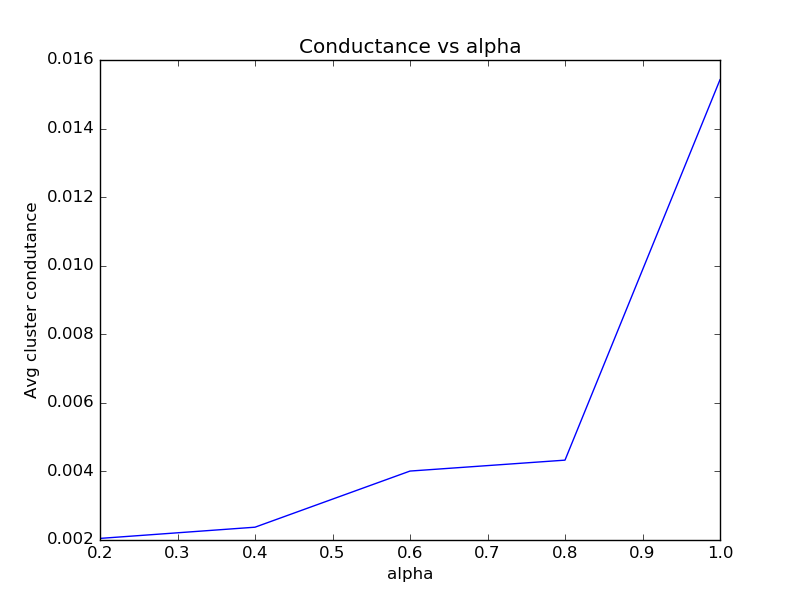
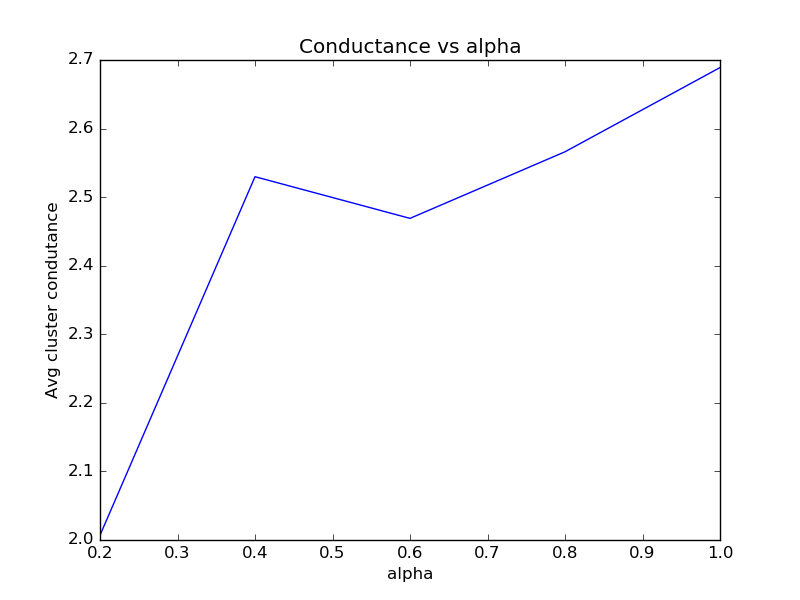
renaming files. Added readme

diff --git a/evaluate.py b/evaluate.py
@@ -4,18 +4,17 @@ import preprocessing as pre
 
 def printAverageNodesInCluster(colors):
     print {c:len(colors[c]) for c in colors}
-    
+
 def evaluateClusters(labels, graph_list):
     order = sorted(graph_list[0].nodes())
     colors = {}
+    num_clusters = len(colors)
     num_layers = len(graph_list)
     for i,c in enumerate(labels):
         if c in colors:
             colors[c] += [order[i]]
 	else:
 	    colors[c] = [order[i]]
-
-
 
     density = np.zeros((num_layers,len(colors)))
     conductance = np.zeros((num_layers,len(colors)))
@@ -39,8 +38,8 @@ def evaluateClusters(labels, graph_list):
     print np.mean(density,axis=0)
     print "Conductance found for each cluster across all layers:"
     print np.mean(conductance,axis=0)
-    mean_density = np.sum(np.mean(density,axis=0))/num_layers
-    mean_conductance = np.sum(np.mean(conductance,axis=0))/num_layers
+    mean_density = np.mean(np.mean(density,axis=0))
+    mean_conductance = np.mean(np.mean(conductance,axis=0))
     return mean_density, mean_conductance
 
         

diff --git a/mlg_clustering.py b/mlg_clustering.py
@@ -97,6 +97,6 @@ def main():
 		conductance.append(cond)
 	plotData(density,alphas,'alpha','Avg. cluster density','Density vs alpha')
 	plotData(conductance,alphas,'alpha','Avg cluster condutance','Conductance vs alpha')
-
+	#print getClusters(graph_list,10,0.4)
 if __name__ == '__main__':
 	main()
